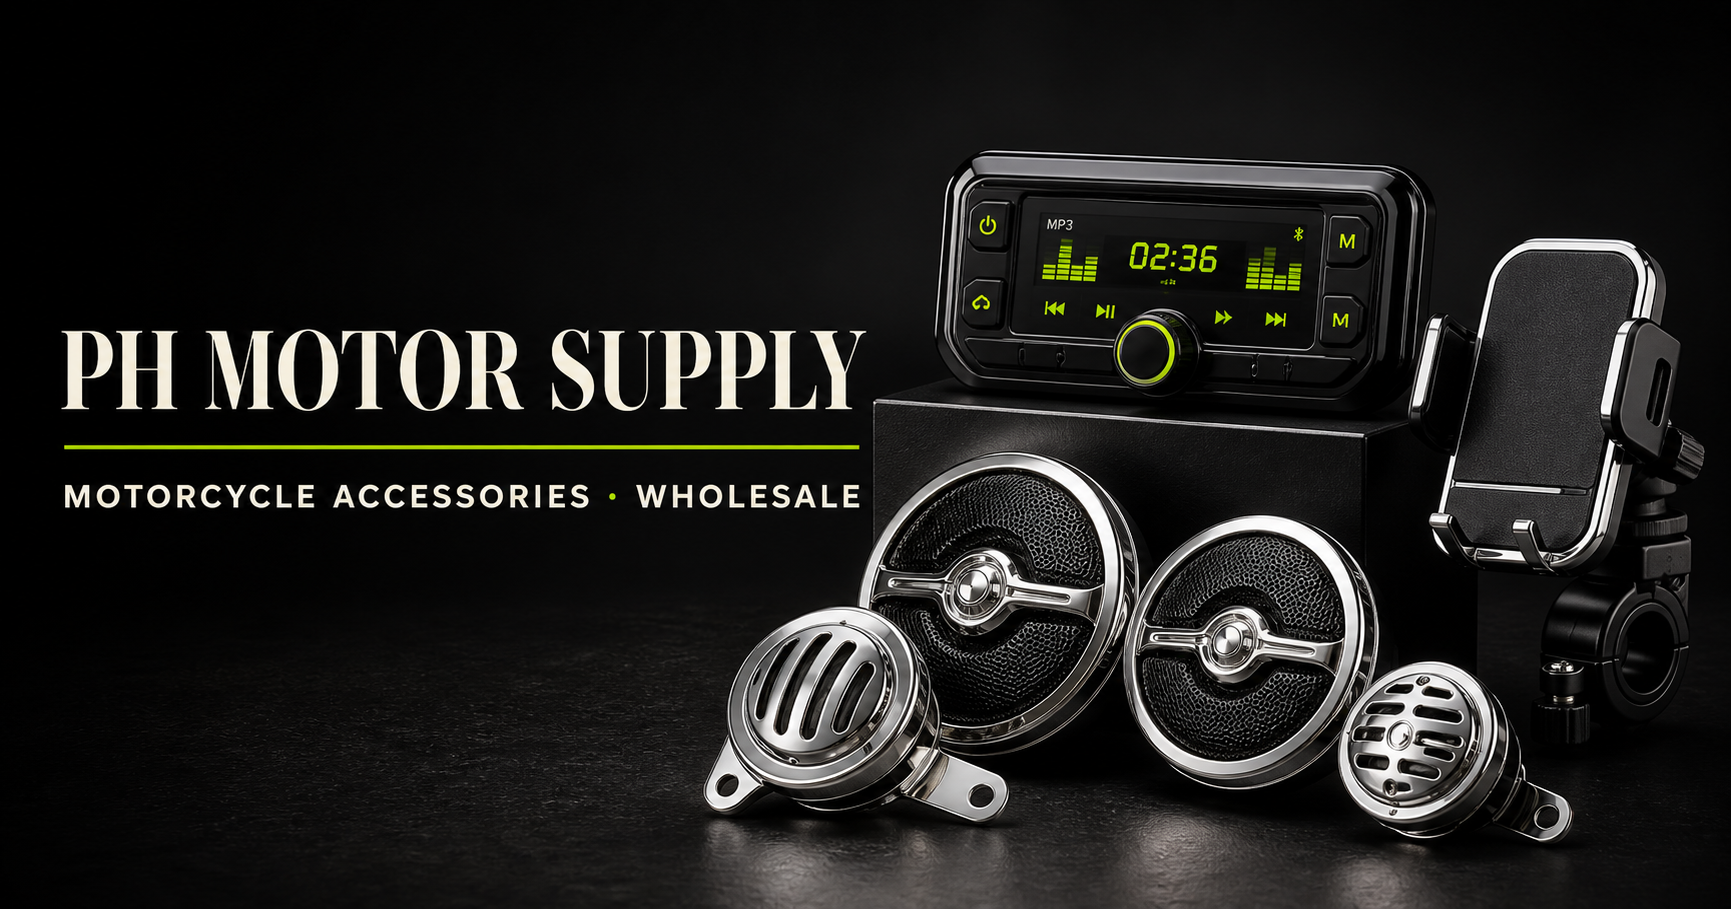
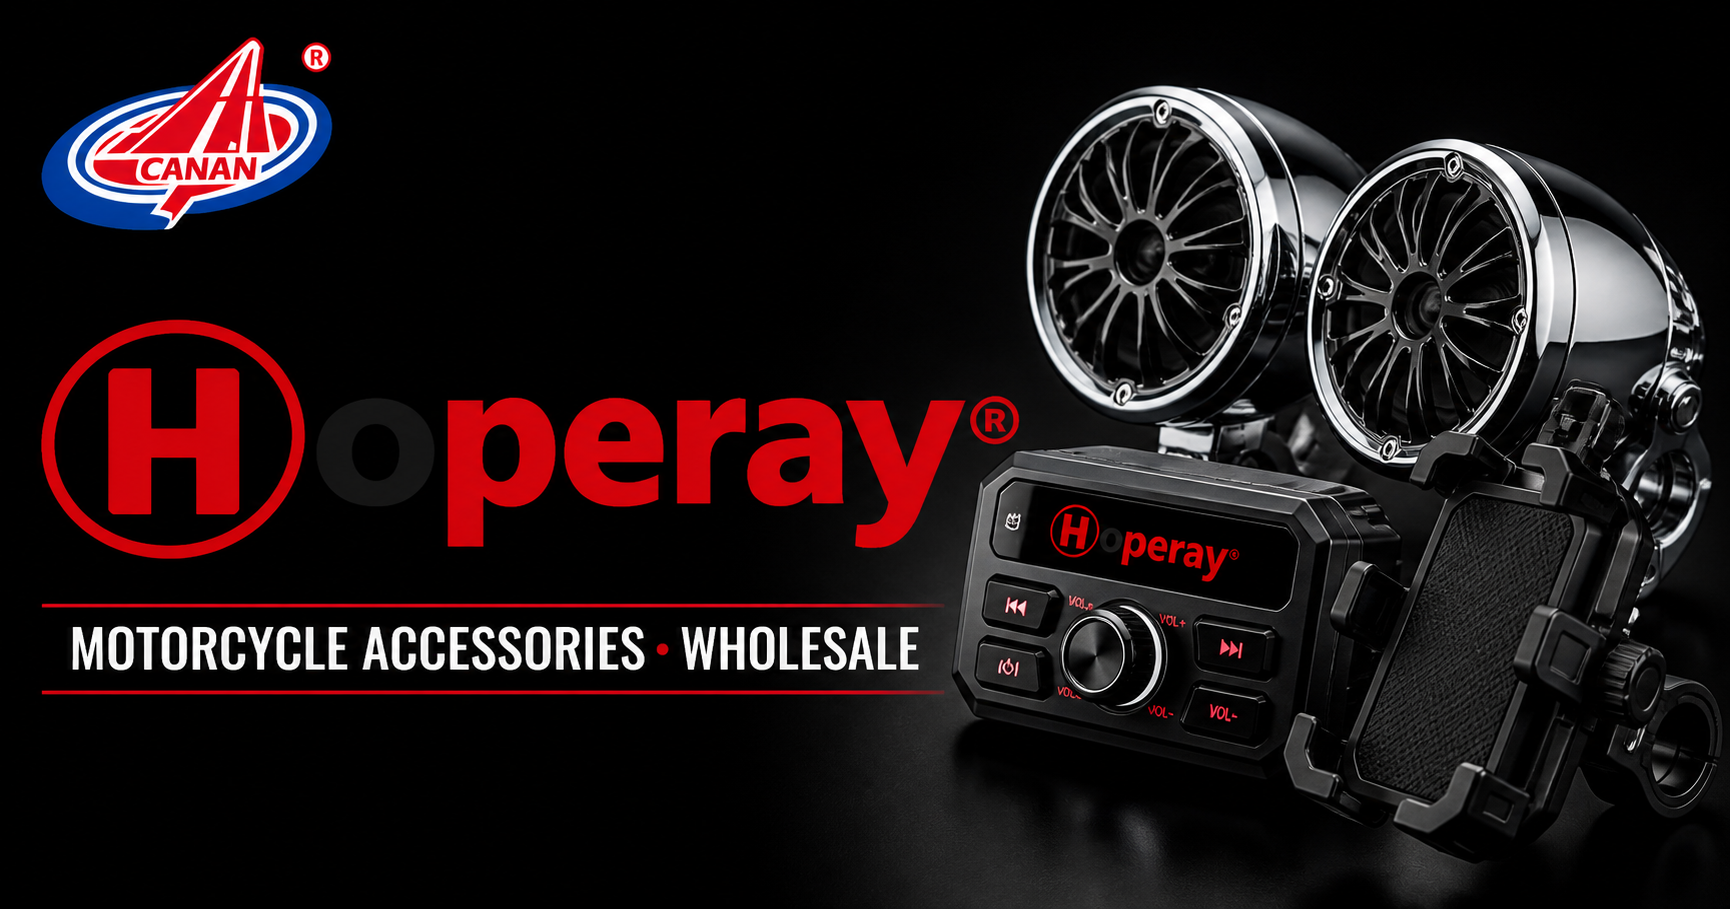
Add Hoperay and CANAN branding with rotating hero

diff --git a/app/globals.css b/app/globals.css
@@ -6,16 +6,15 @@ html { scroll-behavior:smooth; }
 body { margin:0; color:var(--ink); background:var(--paper); font-family:Arial, Helvetica, sans-serif; }
 a { color:inherit; text-decoration:none; }
 .site-header { position:absolute; z-index:10; top:0; left:0; right:0; display:flex; align-items:center; justify-content:space-between; padding:24px clamp(22px,5vw,74px); color:white; }
-.brand { display:grid; line-height:.8; text-transform:uppercase; }
-.brand span { font:700 38px/1 Georgia,serif; letter-spacing:-2px; }
-.brand small { font-size:9px; letter-spacing:2px; }
+.brand { display:flex; align-items:center; width:clamp(96px,9vw,142px); height:70px; }
+.brand img { display:block; width:100%; height:100%; object-fit:contain; object-position:left center; filter:drop-shadow(0 2px 9px rgba(0,0,0,.38)); }
 nav { display:flex; gap:clamp(18px,3vw,42px); font-size:13px; }
 nav a { padding:8px 0; border-bottom:1px solid transparent; } nav a:hover { border-color:white; }
 .hero { position:relative; min-height:94vh; display:flex; align-items:center; padding:130px clamp(22px,7vw,106px) 120px; color:white; overflow:hidden; background:#0a0a09; }
-.hero-collage,.hero-overlay { position:absolute; inset:0; }
-.hero-collage { display:grid; grid-template-columns:1.15fr .85fr .8fr; opacity:.76; }
-.hero-collage img { width:100%; height:100%; object-fit:cover; filter:saturate(.5) contrast(1.05); }
-.hero-collage img:nth-child(2) { border-left:1px solid rgba(255,255,255,.14); border-right:1px solid rgba(255,255,255,.14); }
+.hero-carousel,.hero-overlay { position:absolute; inset:0; }
+.hero-carousel { overflow:hidden; background:#0a0a09; }
+.hero-carousel img { position:absolute; inset:0; width:100%; height:100%; object-fit:cover; object-position:center; opacity:0; transform:scale(1.035); filter:saturate(.7) contrast(1.06); transition:opacity .9s ease,transform 3.8s ease; }
+.hero-carousel img.active { opacity:.78; transform:scale(1); }
 .hero-overlay { background:linear-gradient(90deg,rgba(5,5,4,.88) 0%,rgba(5,5,4,.54) 47%,rgba(5,5,4,.22)),linear-gradient(0deg,rgba(5,5,4,.72),transparent 55%); }
 .hero-copy { position:relative; z-index:2; width:min(780px,100%); }
 .kicker { margin:0 0 24px; text-transform:uppercase; letter-spacing:2.5px; font-size:10px; font-weight:700; }
@@ -23,6 +22,8 @@ nav a { padding:8px 0; border-bottom:1px solid transparent; } nav a:hover { bord
 h1,h2,h3,p { margin-top:0; }
 h1 { margin-bottom:28px; font:400 clamp(60px,10vw,146px)/.78 Georgia,serif; letter-spacing:-7px; }
 h1 em,h2 em { font-weight:400; color:var(--accent); }
+.hero-brand { width:min(760px,78vw); margin:0 0 28px; line-height:1; }
+.hero-brand img { display:block; width:100%; height:auto; object-fit:contain; object-position:left center; filter:drop-shadow(0 12px 30px rgba(0,0,0,.45)); }
 .hero-intro { max-width:660px; margin:0; font-size:clamp(17px,1.7vw,23px); line-height:1.55; }
 .hero-actions { display:flex; flex-wrap:wrap; gap:12px; margin-top:38px; }
 .button { min-width:180px; padding:17px 24px; border:1px solid rgba(255,255,255,.55); text-align:center; font-size:12px; text-transform:uppercase; letter-spacing:1px; }
@@ -74,6 +75,6 @@ footer .kicker { color:#526c12; } footer h2 { font-size:clamp(54px,8vw,116px); }
 .contact-card { padding:36px; border:1px solid rgba(0,0,0,.35); background:rgba(255,255,255,.18); }
 .contact-card p { font:400 27px/1.3 Georgia,serif; }.contact-card span { display:block; padding-top:24px; border-top:1px solid rgba(0,0,0,.25); font-size:11px; text-transform:uppercase; }
 footer > small { position:absolute; left:clamp(22px,6vw,92px); bottom:28px; font-size:10px; }
-@media (max-width:900px) { .category-grid,.product-grid { grid-template-columns:repeat(2,1fr); }.section-heading,.about-grid,footer { grid-template-columns:1fr; }.hero-facts { left:22px; right:auto; }.hero-collage { grid-template-columns:1fr; }.hero-collage img:not(:first-child) { display:none; }.section-heading > p { max-width:560px; }.category-card { min-height:260px; } }
-@media (max-width:600px) { .site-header { padding:18px 20px; }.brand span { font-size:30px; }nav { gap:13px; font-size:11px; }.hero { min-height:100svh; padding-left:22px; padding-right:22px; }.hero-copy { padding-bottom:120px; }h1 { letter-spacing:-4px; }.hero-facts { grid-template-columns:repeat(3,1fr); width:calc(100% - 44px); }.hero-facts div { min-width:0; padding-right:8px; }.hero-facts strong { font-size:10px; }.category-section,.collection,.about,footer { padding-left:20px; padding-right:20px; }.section-heading,.collection-top { display:grid; }.category-grid { grid-template-columns:1fr; }.category-card { min-height:220px; }.product-grid { grid-template-columns:repeat(2,minmax(0,1fr)); gap:22px 8px; }.product-meta h3 { font-size:14px; }.filters { overflow-x:auto; flex-wrap:nowrap; }.filters button { flex:none; }.about-grid ul { grid-template-columns:1fr; }footer { padding-top:100px; padding-bottom:100px; }.contact-card { padding:24px; } }
+@media (max-width:900px) { .category-grid,.product-grid { grid-template-columns:repeat(2,1fr); }.section-heading,.about-grid,footer { grid-template-columns:1fr; }.hero-facts { left:22px; right:auto; }.section-heading > p { max-width:560px; }.category-card { min-height:260px; } }
+@media (max-width:600px) { .site-header { padding:12px 20px; }.brand { width:90px; height:58px; }nav { gap:13px; font-size:11px; }.hero { min-height:100svh; padding-left:22px; padding-right:22px; }.hero-copy { padding-bottom:120px; }.hero-brand { width:min(88vw,620px); }.hero-carousel img { object-position:center; }.hero-facts { grid-template-columns:repeat(3,1fr); width:calc(100% - 44px); }.hero-facts div { min-width:0; padding-right:8px; }.hero-facts strong { font-size:10px; }.category-section,.collection,.about,footer { padding-left:20px; padding-right:20px; }.section-heading,.collection-top { display:grid; }.category-grid { grid-template-columns:1fr; }.category-card { min-height:220px; }.product-grid { grid-template-columns:repeat(2,minmax(0,1fr)); gap:22px 8px; }.product-meta h3 { font-size:14px; }.filters { overflow-x:auto; flex-wrap:nowrap; }.filters button { flex:none; }.about-grid ul { grid-template-columns:1fr; }footer { padding-top:100px; padding-bottom:100px; }.contact-card { padding:24px; } }
 @media (prefers-reduced-motion:reduce) { html { scroll-behavior:auto; } * { transition:none!important; } }

diff --git a/app/page.tsx b/app/page.tsx
@@ -1,4 +1,5 @@
 import ProductGallery from "./ProductGallery";
+import HeroCarousel from "./HeroCarousel";
 import products from "./products.json";
 
 const categoryCards = [
@@ -12,8 +13,8 @@ export default function Home() {
   return (
     <main>
       <header className="site-header">
-        <a className="brand" href="#top" aria-label="PH Motor Supply home">
-          <span>PH</span><small>Motor Supply</small>
+        <a className="brand" href="#top" aria-label="CANAN home">
+          <img src="/brand-canan.png" alt="CANAN" />
         </a>
         <nav aria-label="Main navigation">
           <a href="#collection">Collection</a>
@@ -23,15 +24,11 @@ export default function Home() {
       </header>
 
       <section className="hero" id="top">
-        <div className="hero-collage" aria-hidden="true">
-          <img src="/catalog-v2/product-0194.webp" alt="" />
-          <img src="/catalog-v2/product-0444.webp" alt="" />
-          <img src="/catalog-v2/product-0460.webp" alt="" />
-        </div>
+        <HeroCarousel />
         <div className="hero-overlay" />
         <div className="hero-copy">
           <p className="kicker">Guangzhou · Motorcycle Accessories</p>
-          <h1><em>PH</em> MOTOR<br />SUPPLY</h1>
+          <h1 className="hero-brand"><img src="/brand-hoperay.png" alt="Hoperay" /></h1>
           <p className="hero-intro">A focused collection of motorcycle audio, MP3 systems, phone mounts and accessories—sourced for global wholesale partners.</p>
           <div className="hero-actions">
             <a className="button light" href="#collection">View Collection</a>
@@ -80,7 +77,7 @@ export default function Home() {
           <p>Wholesale catalogue, quotations and product recommendations are available on request.</p>
           <span>WhatsApp / email details can be added here</span>
         </div>
-        <small>© 2026 PH Motor Supply · Guangzhou, China</small>
+        <small>© 2026 Hoperay · CANAN · Guangzhou, China</small>
       </footer>
     </main>
   );

diff --git a/app/HeroCarousel.tsx b/app/HeroCarousel.tsx
@@ -1,0 +1,30 @@
+"use client";
+
+import { useEffect, useState } from "react";
+
+const slides = [
+  "/catalog-v2/product-0194.webp",
+  "/catalog-v2/product-0444.webp",
+  "/catalog-v2/product-0460.webp",
+  "/catalog-v2/product-0365.webp",
+  "/catalog-v2/product-0098.webp",
+  "/catalog-v2/product-0528.webp",
+];
+
+export default function HeroCarousel() {
+  const [active, setActive] = useState(0);
+
+  useEffect(() => {
+    if (window.matchMedia("(prefers-reduced-motion: reduce)").matches) return;
+    const timer = window.setInterval(() => setActive((index) => (index + 1) % slides.length), 3000);
+    return () => window.clearInterval(timer);
+  }, []);
+
+  return (
+    <div className="hero-carousel" aria-hidden="true">
+      {slides.map((src, index) => (
+        <img className={index === active ? "active" : ""} src={src} alt="" key={src} />
+      ))}
+    </div>
+  );
+}

diff --git a/app/layout.tsx b/app/layout.tsx
@@ -7,7 +7,7 @@ export async function generateMetadata(): Promise<Metadata> {
   const host = requestHeaders.get("host") || "localhost:3000";
   const protocol = requestHeaders.get("x-forwarded-proto") || (host.includes("localhost") ? "http" : "https");
   const imageUrl = `${protocol}://${host}/og.png`;
-  const title = "PH Motor Supply | Motorcycle Accessories Wholesale";
+  const title = "Hoperay · CANAN | Motorcycle Accessories Wholesale";
   const description = "Motorcycle MP3 systems, speakers, phone mounts and accessories for global wholesale partners.";
   return {
     title,
